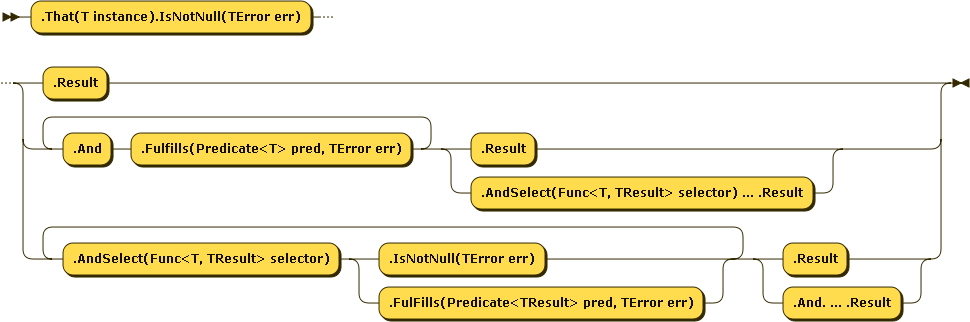
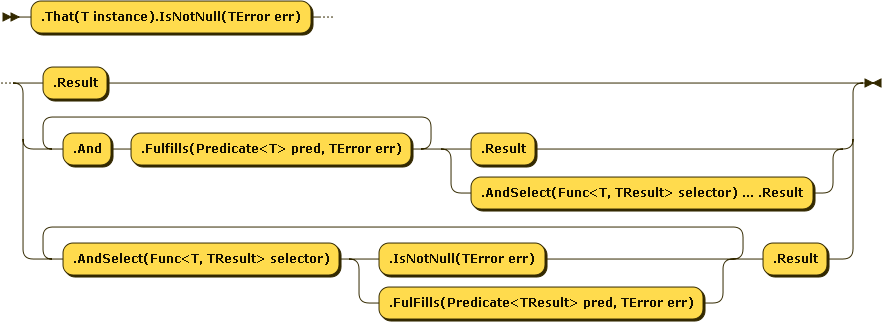
validation changed: no .And after .AndSelect()

diff --git a/functionalextensions/Validation/Fluent/FluentSelectionValidator.cs b/functionalextensions/Validation/Fluent/FluentSelectionValidator.cs
@@ -17,7 +17,7 @@ namespace FunctionalExtensions.Validation.Fluent
             _result = result;
         }
 
-        public IIntermediate2<T, TError> IsNotNull(TError error)
+        public IIntermediate2A<T, TError> IsNotNull(TError error)
         {
             try
             {
@@ -33,7 +33,7 @@ namespace FunctionalExtensions.Validation.Fluent
             }
         }
 
-        public IIntermediate2<T, TError> Fulfills(Predicate<TResult> predicate, TError error)
+        public IIntermediate2A<T, TError> Fulfills(Predicate<TResult> predicate, TError error)
         {
             try
             {

diff --git a/functionalextensions/Validation/Fluent/FluentValidator.cs b/functionalextensions/Validation/Fluent/FluentValidator.cs
@@ -2,7 +2,7 @@
 
 namespace FunctionalExtensions.Validation.Fluent
 {
-    internal class FluentValidator<T, TError> : IIntermediate1<T, TError>, IIntermediate2<T, TError>, IIntermediate3<T, TError> where T : class
+    internal class FluentValidator<T, TError> : IIntermediate1<T, TError>, IIntermediate2<T, TError>, IIntermediate3<T, TError>, IIntermediate2A<T, TError> where T : class
     {
         private readonly T _instance;
         private readonly Choice<T, Failures<TError>> _result;

diff --git a/functionalextensions/Validation/Fluent/IIntermediate4.cs b/functionalextensions/Validation/Fluent/IIntermediate4.cs
@@ -4,7 +4,7 @@ namespace FunctionalExtensions.Validation.Fluent
 {
     public interface IIntermediate4<T, out TResult, TError>
     {
-        IIntermediate2<T, TError> IsNotNull(TError error);
-        IIntermediate2<T, TError> Fulfills(Predicate<TResult> predicate, TError error);
+        IIntermediate2A<T, TError> IsNotNull(TError error);
+        IIntermediate2A<T, TError> Fulfills(Predicate<TResult> predicate, TError error);
     }
 }

diff --git a/functionalextensions/Validation/Fluent/IIntermediate2.cs b/functionalextensions/Validation/Fluent/IIntermediate2.cs
@@ -7,4 +7,9 @@ namespace FunctionalExtensions.Validation.Fluent
         IIntermediate3<T, TError> And { get; }
         IIntermediate4<T, TResult, TError> AndSelect<TResult>(Func<T, TResult> selector) where TResult : class;
     }
+
+    public interface IIntermediate2A<T, TError> : IResult<T, TError>
+    {
+        IIntermediate4<T, TResult, TError> AndSelect<TResult>(Func<T, TResult> selector) where TResult : class;
+    }
 }
